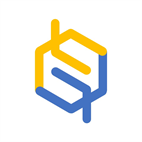
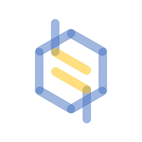
更改图标

Changed region(s): [[0.2254, 0.1127, 0.7606, 0.8732]]

diff --git a/LogicService/Helper/SerializeHelper.cs b/LogicService/Helper/SerializeHelper.cs
@@ -2,22 +2,59 @@
 using System;
 using System.Collections.Generic;
 using System.IO;
-using System.Linq;
+using System.Runtime.Serialization;
 using System.Runtime.Serialization.Formatters.Binary;
 using System.Text;
-using System.Threading.Tasks;
 
-namespace LogicService.Helper 
+namespace LogicService.Helper
 {
     public class SerializeHelper
     {
 
+        #region byte[]
+
+        // Stream is a raw and unformatted bit arrry.
+        // Do not use Encoding.Default.
+        // Use UTF-8 for languages supporting.
+
+        public static byte[] StringToBytes(string s)
+        {
+            return Encoding.UTF8.GetBytes(s);
+        }
+
+        public static string BytesToJson(byte[] bytes)
+        {
+            return Encoding.UTF8.GetString(bytes);
+        }
+
+        public static byte[] SerializeToBytes(object o)
+        {
+            IFormatter formatter = new BinaryFormatter();
+            using (MemoryStream stream = new MemoryStream())
+            {
+                formatter.Serialize(stream, o);
+                stream.Position = 0;
+                return stream.ToArray();
+            }
+        }
+
+        public static T DeserializeFromBytes<T>(byte[] bytes) where T : class
+        {
+            IFormatter formatter = new BinaryFormatter();
+            using (MemoryStream stream = new MemoryStream(bytes))
+            {
+                stream.Seek(0, SeekOrigin.Begin);
+                return (T)formatter.Deserialize(stream);
+            }
+        }
+
+        #endregion
+
         #region Json
 
-        public static string SerializeObject(object o)
+        public static string SerializeToJson(object o)
         {
-            string json = JsonConvert.SerializeObject(o);
-            return json;
+            return JsonConvert.SerializeObject(o);
         }
 
         public static T DeserializeJsonToObject<T>(string json) where T : class
@@ -38,7 +75,7 @@ namespace LogicService.Helper
             return list;
         }
 
-        public static T DeserializeAnonymousType<T>(string json, T anonymousTypeObject)
+        public static T DeserializeAnonymousType<T>(string json, T anonymousTypeObject) where T : class
         {
             T t = JsonConvert.DeserializeAnonymousType(json, anonymousTypeObject);
             return t;
@@ -48,12 +85,12 @@ namespace LogicService.Helper
 
         #region BinaryFormatter
 
-        public string ToBinary<T>(T item)
+        public static string SerializeToBinary(object o)
         {
             BinaryFormatter formatter = new BinaryFormatter();
             using (MemoryStream ms = new MemoryStream())
             {
-                formatter.Serialize(ms, item);
+                formatter.Serialize(ms, o);
                 ms.Position = 0;
                 byte[] bytes = ms.ToArray();
                 StringBuilder sb = new StringBuilder();
@@ -65,7 +102,7 @@ namespace LogicService.Helper
             }
         }
 
-        public T FromBinary<T>(string str)
+        public static T DeserializeFromBinary<T>(string str) where T : class
         {
             int intLen = str.Length / 2;
             byte[] bytes = new byte[intLen];

diff --git a/Research Flow/MainPage.xaml.cs b/Research Flow/MainPage.xaml.cs
@@ -52,15 +52,20 @@ namespace Research_Flow
         // Dialog，适用于操作限制
 
         // 用户数据存储：
-        // RSS数据        加密文本   同步
+        // RSS数据        文本      同步
         // 爬虫数据
         // 项目数据
         // 机器学习数据
         // 论文
         // 截图           图片      本地 
         // 应用信息       应用设置   本地
-        // 用户信息       加密文本   同步
+        // 用户信息
 
+        //关于加密，如果中途选择加密或者更改密钥，可以尝试使用新的写方法，而用捕获异常的方式尝试之前用过的读方法
+        //目前的同步机制不能满足远程删除，要么使用数据库管理文件，要么在解压时对照被删除文件。
+        //WebView地址栏实时更新
+        //如何直接使用系统账户登录
+        //尽可能用数据绑定节省代码
         //Quartz.NET作业调度
         //WebView存储浏览记录，保存在Log文件夹里
         //解决获取Feed失败后再也无法获取信息
@@ -68,7 +73,6 @@ namespace Research_Flow
         //Feed内容要包含时间，这样可以通知新Feed，并可以给用户呈现出一个热点、时间图
         //数据库要存哪些数据？适合存储小数据，不适合大段文字和复杂格式以及复杂的继承关系。
         //数据库文件是否能加密，是否能转换成别的格式，压缩包是否能加密
-        //同步进程显示在应用内通知栏
         //注册后台任务
         //爬虫的界面、流、存储
         //自定义关键词，项目管理
@@ -100,7 +104,7 @@ namespace Research_Flow
             //});
             if (await Synchronization.ScanChanges())
             {
-                AppMessage.SendMessage("Synchronize successfully");
+                AppMessage.SendMessage("Synchronize successfully", AppMessage.MessageType.Bravo);
             }
         }
 
@@ -191,6 +195,7 @@ namespace Research_Flow
             else
             {
                 accountName.Text = "Offline";
+                accountEmail.Text = ApplicationService.AccountName;
             }
         }
 
@@ -209,7 +214,7 @@ namespace Research_Flow
         private async void AccountSync_Click(object sender, RoutedEventArgs e)
         {
             if (await Synchronization.ScanChanges())
-                AppMessage.SendMessage("Synchronize successfully");
+                AppMessage.SendMessage("Synchronize successfully", AppMessage.MessageType.Bravo);
         }
 
         private async void AccountLogout_Click(object sender, RoutedEventArgs e)

diff --git a/LogicService/Storage/LocalStorage.cs b/LogicService/Storage/LocalStorage.cs
@@ -3,6 +3,7 @@ using LogicService.Security;
 using LogicService.Services;
 using Microsoft.Toolkit.Uwp.Helpers;
 using System;
+using System.IO;
 using System.Threading.Tasks;
 using Windows.Storage;
 
@@ -51,6 +52,11 @@ namespace LogicService.Storage
             return await (await GetUserFolderAsync()).CreateFolderAsync("Feed", CreationCollisionOption.OpenIfExists);
         }
 
+        public static async Task<StorageFolder> GetLogAsync()
+        {
+            return await (await GetUserFolderAsync()).CreateFolderAsync("Log", CreationCollisionOption.OpenIfExists);
+        }
+
         #endregion
 
         #region Operator
@@ -58,8 +64,7 @@ namespace LogicService.Storage
         public static async Task<StorageFile> WriteJsonAsync(StorageFolder folder, string name, object o)
         {
             StorageFile file = await folder.CreateFileAsync(name, CreationCollisionOption.ReplaceExisting);
-            string content = SerializeHelper.SerializeObject(o);
-            await FileIO.WriteTextAsync(file, content);
+            await FileIO.WriteTextAsync(file, SerializeHelper.SerializeToJson(o));
             ApplicationService.LocalDateModified = DateTime.Now.ToBinary();
             return file;
         }
@@ -67,8 +72,7 @@ namespace LogicService.Storage
         public static async Task<object> ReadJsonAsync<T>(StorageFolder folder, string name) where T : class
         {
             StorageFile file = await folder.GetFileAsync(name);
-            string content = await FileIO.ReadTextAsync(file);
-            return SerializeHelper.DeserializeJsonToObject<T>(content);
+            return SerializeHelper.DeserializeJsonToObject<T>(await FileIO.ReadTextAsync(file));
         }
 
         public static async void DeleteFile(StorageFolder folder, string name)

diff --git a/Research Flow/Configure.xaml.cs b/Research Flow/Configure.xaml.cs
@@ -40,12 +40,13 @@ namespace Research_Flow
             if (await GraphService.ServiceLogin())
             {
                 accountStatu.Text = await GraphService.GetPrincipalName();
+                // 账户名只在此页面设置
                 ApplicationService.AccountName = await GraphService.GetPrincipalName();
                 ConfigureFile();
             }
             else
             {
-                configState.Text = "Fail to log in, please try again.";
+                configState.Text = "> Fail to log in, please try again.";
             }
         }
 
@@ -59,12 +60,12 @@ namespace Research_Flow
                     bool IsDownloaded = await Synchronization.DownloadAll();
                     if (IsDownloaded)
                     {
-                        configState.Text += "\nAcquire files successfully.";
-                        configState.Text += "\nNow enjoy this application.";
+                        configState.Text += "\n> Acquire files successfully.";
+                        configState.Text += "\n> Now enjoy this application.";
                     }
                     else
                     {
-                        configState.Text += "\nCan't make it, but still try using.";
+                        configState.Text += "\n> Can't make it, but still try using.";
                     }
 
                     finish_config.IsEnabled = true;
@@ -72,7 +73,7 @@ namespace Research_Flow
             }
             catch (Exception ex)
             {
-                configState.Text += "\nFail: " + ex.Message;
+                configState.Text += "\n> Fail: " + ex.Message;
             }
         }
 

diff --git a/LogicService/Services/AppMessage.cs b/LogicService/Services/AppMessage.cs
@@ -15,8 +15,11 @@ namespace LogicService.Services
     {
         public enum MessageType
         {
-            Inform,
-            Warn,
+            Tell,    // flash a text massage
+            Hey,     // scroll a text
+            Bravo,   // flash and color
+            Ops,     // flash and color
+            Banner   // fix a new text
         }
 
         /// <summary>
@@ -29,11 +32,11 @@ namespace LogicService.Services
         /// Just like Action-Parameter's behavior.
         /// </summary>
         /// <param name="send"></param>
-        public static void SendMessage(string send)
+        public static void SendMessage(string text, MessageType type)
         {
             if (MessageReached != null)
             {
-                MessageReached(send);
+                MessageReached(text);
             }
         }
 

diff --git a/LogicService/Services/ApplicationService.cs b/LogicService/Services/ApplicationService.cs
@@ -64,8 +64,12 @@ namespace LogicService.Services
         #endregion
 
         #region Settings
-        // => operator means read-only
 
+        /// <summary>
+        /// 如果用户改了账户邮箱，并不一定马上要体现在应用里，前提是只在Configure页面设置用户名
+        /// 如果每次在MainPage里在线设置用户名，可能会有一次导致和本地设置不一致，从而加载不了文件只能手动下载并重启
+        /// 反之，如果他们重新登陆，所有的文件会自动下载到新的账户文件夹里，他们可能不会发现有什么不对。
+        /// </summary>
         public static string AccountName
         {
             get
